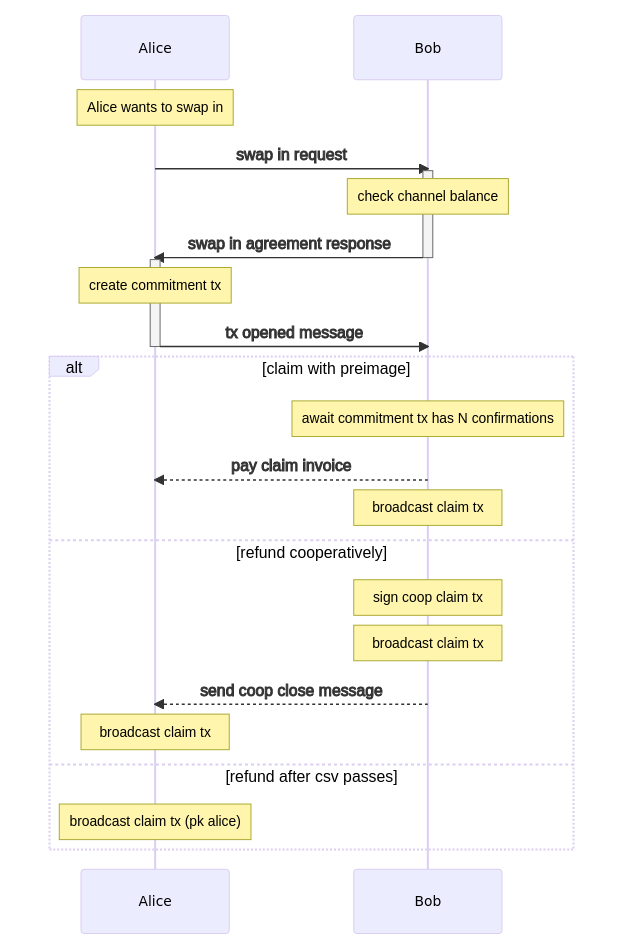
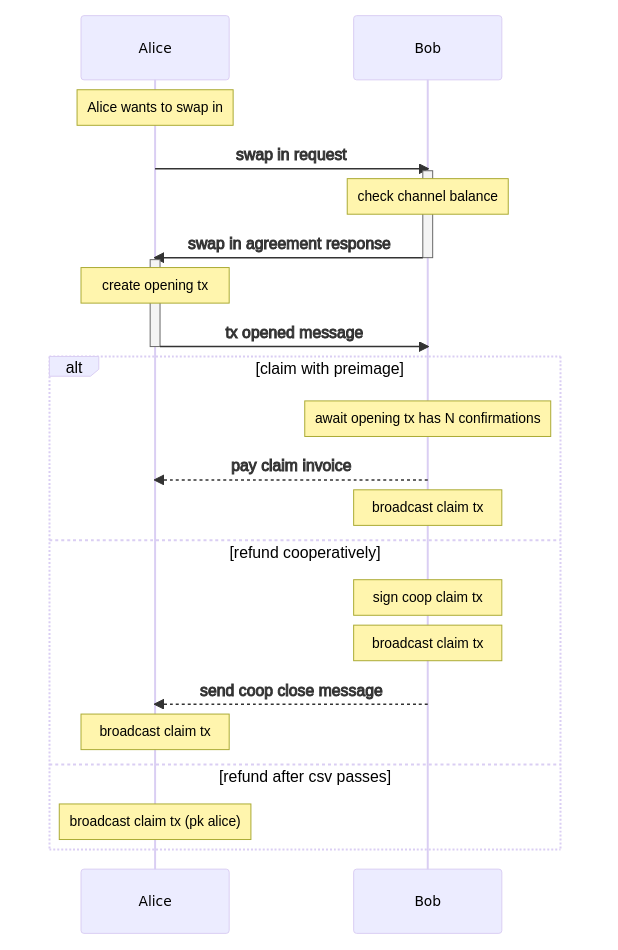
fixup: add peer protocol [skip ci]
- rename commitment tx to opening tx in sequence diagrams

diff --git a/docs/mmd/swap-out-sender-states.md b/docs/mmd/swap-out-sender-states.md
@@ -1,40 +1,40 @@
 ```mermaid
 stateDiagram-v2
-State_SendCancel
-State_SendCancel --> State_SwapCanceled: Event_ActionSucceeded
-State_SendCancel --> State_SwapCanceled: Event_ActionFailed
-State_SwapOutSender_ClaimSwap
-State_SwapOutSender_ClaimSwap --> State_ClaimedPreimage: Event_ActionSucceeded
-State_SwapOutSender_ClaimSwap --> State_SwapOutSender_ClaimSwap: Event_OnRetry
-State_SwapOutSender_SendCoopClose
-State_SwapOutSender_SendCoopClose --> State_SendCancel: Event_ActionFailed
-State_SwapOutSender_SendCoopClose --> State_ClaimedCoop: Event_ActionSucceeded
-State_ClaimedPreimage
-State_SwapOutSender_CreateSwap
-State_SwapOutSender_CreateSwap --> State_SwapOutSender_SendRequest: Event_ActionSucceeded
-State_SwapOutSender_PayFeeInvoice
-State_SwapOutSender_PayFeeInvoice --> State_SwapOutSender_AwaitTxBroadcastedMessage: Event_ActionSucceeded
-State_SwapOutSender_PayFeeInvoice --> State_SendCancel: Event_ActionFailed
-State_SwapCanceled
-[*] --> State_SwapOutSender_CreateSwap: Event_OnSwapOutStarted
-State_SwapOutSender_ValidateTxAndPayClaimInvoice
-State_SwapOutSender_ValidateTxAndPayClaimInvoice --> State_SwapOutSender_BuildSigHash: Event_ActionFailed
-State_SwapOutSender_ValidateTxAndPayClaimInvoice --> State_SwapOutSender_ClaimSwap: Event_ActionSucceeded
-State_SwapOutSender_BuildSigHash
-State_SwapOutSender_BuildSigHash --> State_SendCancel: Event_ActionFailed
-State_SwapOutSender_BuildSigHash --> State_SwapOutSender_SendCoopClose: Event_ActionSucceeded
-State_ClaimedCoop
 State_SwapOutSender_SendRequest
 State_SwapOutSender_SendRequest --> State_SwapCanceled: Event_ActionFailed
 State_SwapOutSender_SendRequest --> State_SwapOutSender_AwaitAgreement: Event_ActionSucceeded
 State_SwapOutSender_AwaitAgreement
 State_SwapOutSender_AwaitAgreement --> State_SwapCanceled: Event_OnCancelReceived
 State_SwapOutSender_AwaitAgreement --> State_SwapOutSender_PayFeeInvoice: Event_OnFeeInvoiceReceived
+State_SwapOutSender_ValidateTxAndPayClaimInvoice
+State_SwapOutSender_ValidateTxAndPayClaimInvoice --> State_SwapOutSender_SendPrivkey: Event_ActionFailed
+State_SwapOutSender_ValidateTxAndPayClaimInvoice --> State_SwapOutSender_ClaimSwap: Event_ActionSucceeded
+State_SwapOutSender_SendCoopClose
+State_SwapOutSender_SendCoopClose --> State_SendCancel: Event_ActionFailed
+State_SwapOutSender_SendCoopClose --> State_ClaimedCoop: Event_ActionSucceeded
+State_ClaimedPreimage
+[*] --> State_SwapOutSender_CreateSwap: Event_OnSwapOutStarted
+State_SwapOutSender_ClaimSwap
+State_SwapOutSender_ClaimSwap --> State_ClaimedPreimage: Event_ActionSucceeded
+State_SwapOutSender_ClaimSwap --> State_SwapOutSender_ClaimSwap: Event_OnRetry
+State_SwapOutSender_CreateSwap
+State_SwapOutSender_CreateSwap --> State_SwapOutSender_SendRequest: Event_ActionSucceeded
+State_SendCancel
+State_SendCancel --> State_SwapCanceled: Event_ActionSucceeded
+State_SendCancel --> State_SwapCanceled: Event_ActionFailed
+State_SwapOutSender_SendPrivkey
+State_SwapOutSender_SendPrivkey --> State_SendCancel: Event_ActionFailed
+State_SwapOutSender_SendPrivkey --> State_SwapOutSender_SendCoopClose: Event_ActionSucceeded
+State_SwapCanceled
+State_SwapOutSender_PayFeeInvoice
+State_SwapOutSender_PayFeeInvoice --> State_SendCancel: Event_ActionFailed
+State_SwapOutSender_PayFeeInvoice --> State_SwapOutSender_AwaitTxBroadcastedMessage: Event_ActionSucceeded
 State_SwapOutSender_AwaitTxBroadcastedMessage
 State_SwapOutSender_AwaitTxBroadcastedMessage --> State_SwapCanceled: Event_OnCancelReceived
 State_SwapOutSender_AwaitTxBroadcastedMessage --> State_SwapOutSender_AwaitTxConfirmation: Event_OnTxOpenedMessage
 State_SwapOutSender_AwaitTxBroadcastedMessage --> State_SendCancel: Event_ActionSucceeded
 State_SwapOutSender_AwaitTxConfirmation
-State_SwapOutSender_AwaitTxConfirmation --> State_SwapOutSender_BuildSigHash: Event_ActionFailed
+State_SwapOutSender_AwaitTxConfirmation --> State_SwapOutSender_SendPrivkey: Event_ActionFailed
 State_SwapOutSender_AwaitTxConfirmation --> State_SwapOutSender_ValidateTxAndPayClaimInvoice: Event_OnTxConfirmed
+State_ClaimedCoop
 ```

diff --git a/docs/mmd/swap-out-receiver-states.md b/docs/mmd/swap-out-receiver-states.md
@@ -1,39 +1,39 @@
 ```mermaid
 stateDiagram-v2
-[*] --> State_SwapOutReceiver_CreateSwap: Event_OnSwapOutRequestReceived
 State_SwapCanceled
 State_ClaimedPreimage
-State_SwapOutReceiver_CreateSwap
-State_SwapOutReceiver_CreateSwap --> State_SwapOutReceiver_SendFeeInvoice: Event_ActionSucceeded
-State_SwapOutReceiver_CreateSwap --> State_SendCancel: Event_ActionFailed
-State_SwapOutReceiver_BroadcastOpeningTx
-State_SwapOutReceiver_BroadcastOpeningTx --> State_SwapOutReceiver_SendTxBroadcastedMessage: Event_ActionSucceeded
-State_SwapOutReceiver_BroadcastOpeningTx --> State_SendCancel: Event_ActionFailed
-State_SwapOutReceiver_Aborted
-State_SwapOutReceiver_Aborted --> State_SwapOutReceiver_ClaimSwapCsv: Event_OnCsvPassed
+State_ClaimedCoop
+[*] --> State_SwapOutReceiver_CreateSwap: Event_OnSwapOutRequestReceived
+State_SwapOutReceiver_AwaitClaimInvoicePayment
+State_SwapOutReceiver_AwaitClaimInvoicePayment --> State_ClaimedPreimage: Event_OnClaimInvoicePaid
+State_SwapOutReceiver_AwaitClaimInvoicePayment --> State_SwapOutReceiver_ClaimSwapCsv: Event_OnCancelReceived
+State_SwapOutReceiver_AwaitClaimInvoicePayment --> State_SwapOutReceiver_ClaimSwapCoop: Event_OnCoopCloseReceived
+State_SwapOutReceiver_AwaitClaimInvoicePayment --> State_SwapOutReceiver_ClaimSwapCsv: Event_OnCsvPassed
 State_SwapOutReceiver_ClaimSwapCsv
 State_SwapOutReceiver_ClaimSwapCsv --> State_ClaimedCsv: Event_ActionSucceeded
 State_SwapOutReceiver_ClaimSwapCsv --> State_SwapOutReceiver_ClaimSwapCsv: Event_OnRetry
+State_ClaimedCsv
+State_SwapOutReceiver_CreateSwap
+State_SwapOutReceiver_CreateSwap --> State_SwapOutReceiver_SendFeeInvoice: Event_ActionSucceeded
+State_SwapOutReceiver_CreateSwap --> State_SendCancel: Event_ActionFailed
 State_SwapOutReceiver_AwaitFeeInvoicePayment
-State_SwapOutReceiver_AwaitFeeInvoicePayment --> State_SwapCanceled: Event_OnCancelReceived
 State_SwapOutReceiver_AwaitFeeInvoicePayment --> State_SwapOutReceiver_BroadcastOpeningTx: Event_OnFeeInvoicePaid
+State_SwapOutReceiver_AwaitFeeInvoicePayment --> State_SwapCanceled: Event_OnCancelReceived
 State_SendCancel
-State_SendCancel --> State_SwapCanceled: Event_ActionFailed
 State_SendCancel --> State_SwapCanceled: Event_ActionSucceeded
-State_ClaimedCoop
+State_SendCancel --> State_SwapCanceled: Event_ActionFailed
 State_SwapOutReceiver_SendFeeInvoice
 State_SwapOutReceiver_SendFeeInvoice --> State_SendCancel: Event_ActionFailed
 State_SwapOutReceiver_SendFeeInvoice --> State_SwapOutReceiver_AwaitFeeInvoicePayment: Event_ActionSucceeded
 State_SwapOutReceiver_SendTxBroadcastedMessage
 State_SwapOutReceiver_SendTxBroadcastedMessage --> State_SwapOutReceiver_AwaitClaimInvoicePayment: Event_ActionSucceeded
 State_SwapOutReceiver_SendTxBroadcastedMessage --> State_SwapOutReceiver_Aborted: Event_ActionFailed
-State_SwapOutReceiver_AwaitClaimInvoicePayment
-State_SwapOutReceiver_AwaitClaimInvoicePayment --> State_SwapOutReceiver_ClaimSwapCoop: Event_OnCoopCloseReceived
-State_SwapOutReceiver_AwaitClaimInvoicePayment --> State_SwapOutReceiver_ClaimSwapCsv: Event_OnCsvPassed
-State_SwapOutReceiver_AwaitClaimInvoicePayment --> State_ClaimedPreimage: Event_OnClaimInvoicePaid
-State_SwapOutReceiver_AwaitClaimInvoicePayment --> State_SwapOutReceiver_ClaimSwapCsv: Event_OnCancelReceived
+State_SwapOutReceiver_BroadcastOpeningTx
+State_SwapOutReceiver_BroadcastOpeningTx --> State_SwapOutReceiver_SendTxBroadcastedMessage: Event_ActionSucceeded
+State_SwapOutReceiver_BroadcastOpeningTx --> State_SendCancel: Event_ActionFailed
 State_SwapOutReceiver_ClaimSwapCoop
 State_SwapOutReceiver_ClaimSwapCoop --> State_ClaimedCoop: Event_ActionSucceeded
 State_SwapOutReceiver_ClaimSwapCoop --> State_SwapOutReceiver_Aborted: Event_ActionFailed
-State_ClaimedCsv
+State_SwapOutReceiver_Aborted
+State_SwapOutReceiver_Aborted --> State_SwapOutReceiver_ClaimSwapCsv: Event_OnCsvPassed
 ```

diff --git a/docs/mmd/swap-in-sender-states.md b/docs/mmd/swap-in-sender-states.md
@@ -1,39 +1,39 @@
 ```mermaid
 stateDiagram-v2
-State_WaitCsv
-State_WaitCsv --> State_SwapInSender_ClaimSwapCsv: Event_OnCsvPassed
-State_SwapCanceled
+State_ClaimedCoop
 [*] --> State_SwapInSender_CreateSwap: Event_SwapInSender_OnSwapInRequested
-State_SwapInSender_CreateSwap
-State_SwapInSender_CreateSwap --> State_SwapInSender_SendRequest: Event_ActionSucceeded
-State_SwapInSender_CreateSwap --> State_SwapCanceled: Event_ActionFailed
-State_SwapInSender_AwaitAgreement
-State_SwapInSender_AwaitAgreement --> State_SwapInSender_BroadcastOpeningTx: Event_SwapInSender_OnAgreementReceived
-State_SwapInSender_AwaitAgreement --> State_SwapCanceled: Event_OnCancelReceived
 State_SwapInSender_SendTxBroadcastedMessage
 State_SwapInSender_SendTxBroadcastedMessage --> State_SwapInSender_AwaitClaimPayment: Event_ActionSucceeded
 State_SwapInSender_SendTxBroadcastedMessage --> State_WaitCsv: Event_ActionFailed
-State_SwapInSender_ClaimSwapCsv
-State_SwapInSender_ClaimSwapCsv --> State_ClaimedCsv: Event_ActionSucceeded
-State_SwapInSender_ClaimSwapCsv --> State_SwapInSender_ClaimSwapCsv: Event_OnRetry
-State_SwapInSender_ClaimSwapCoop
-State_SwapInSender_ClaimSwapCoop --> State_ClaimedCoop: Event_ActionSucceeded
-State_SwapInSender_ClaimSwapCoop --> State_WaitCsv: Event_ActionFailed
-State_ClaimedCsv
-State_SwapInSender_BroadcastOpeningTx
-State_SwapInSender_BroadcastOpeningTx --> State_SwapInSender_SendTxBroadcastedMessage: Event_ActionSucceeded
-State_SwapInSender_BroadcastOpeningTx --> State_SendCancel: Event_ActionFailed
+State_WaitCsv
+State_WaitCsv --> State_SwapInSender_ClaimSwapCsv: Event_OnCsvPassed
+State_SendCancel
+State_SendCancel --> State_SwapCanceled: Event_ActionSucceeded
+State_SendCancel --> State_SwapCanceled: Event_ActionFailed
+State_ClaimedPreimage
+State_SwapInSender_CreateSwap
+State_SwapInSender_CreateSwap --> State_SwapInSender_SendRequest: Event_ActionSucceeded
+State_SwapInSender_CreateSwap --> State_SwapCanceled: Event_ActionFailed
 State_SwapInSender_AwaitClaimPayment
 State_SwapInSender_AwaitClaimPayment --> State_ClaimedPreimage: Event_OnClaimInvoicePaid
 State_SwapInSender_AwaitClaimPayment --> State_SwapInSender_ClaimSwapCsv: Event_OnCsvPassed
 State_SwapInSender_AwaitClaimPayment --> State_WaitCsv: Event_OnCancelReceived
 State_SwapInSender_AwaitClaimPayment --> State_SwapInSender_ClaimSwapCoop: Event_OnCoopCloseReceived
+State_SwapInSender_ClaimSwapCsv
+State_SwapInSender_ClaimSwapCsv --> State_ClaimedCsv: Event_ActionSucceeded
+State_SwapInSender_ClaimSwapCsv --> State_SwapInSender_ClaimSwapCsv: Event_OnRetry
+State_SwapInSender_AwaitAgreement
+State_SwapInSender_AwaitAgreement --> State_SwapInSender_BroadcastOpeningTx: Event_SwapInSender_OnAgreementReceived
+State_SwapInSender_AwaitAgreement --> State_SwapCanceled: Event_OnCancelReceived
+State_SwapInSender_BroadcastOpeningTx
+State_SwapInSender_BroadcastOpeningTx --> State_SwapInSender_SendTxBroadcastedMessage: Event_ActionSucceeded
+State_SwapInSender_BroadcastOpeningTx --> State_SendCancel: Event_ActionFailed
+State_SwapInSender_ClaimSwapCoop
+State_SwapInSender_ClaimSwapCoop --> State_ClaimedCoop: Event_ActionSucceeded
+State_SwapInSender_ClaimSwapCoop --> State_WaitCsv: Event_ActionFailed
 State_SwapInSender_SendRequest
 State_SwapInSender_SendRequest --> State_SwapInSender_AwaitAgreement: Event_ActionSucceeded
 State_SwapInSender_SendRequest --> State_SwapCanceled: Event_ActionFailed
-State_ClaimedPreimage
-State_ClaimedCoop
-State_SendCancel
-State_SendCancel --> State_SwapCanceled: Event_ActionSucceeded
-State_SendCancel --> State_SwapCanceled: Event_ActionFailed
+State_SwapCanceled
+State_ClaimedCsv
 ```

diff --git a/docs/mmd/swap-in-receiver-states.md b/docs/mmd/swap-in-receiver-states.md
@@ -1,36 +1,36 @@
 ```mermaid
 stateDiagram-v2
-State_SendCancel
-State_SendCancel --> State_SwapCanceled: Event_ActionFailed
-State_SendCancel --> State_SwapCanceled: Event_ActionSucceeded
-State_SwapCanceled
-State_SwapInReceiver_SendAgreement
-State_SwapInReceiver_SendAgreement --> State_SwapInReceiver_AwaitTxBroadcastedMessage: Event_ActionSucceeded
-State_SwapInReceiver_SendAgreement --> State_SendCancel: Event_ActionFailed
+[*] --> State_SwapInReceiver_CreateSwap: Event_SwapInReceiver_OnRequestReceived
 State_SwapInReceiver_AwaitTxBroadcastedMessage
-State_SwapInReceiver_AwaitTxBroadcastedMessage --> State_SendCancel: Event_ActionFailed
 State_SwapInReceiver_AwaitTxBroadcastedMessage --> State_SwapInReceiver_AwaitTxConfirmation: Event_OnTxOpenedMessage
 State_SwapInReceiver_AwaitTxBroadcastedMessage --> State_SwapCanceled: Event_OnCancelReceived
-State_SwapInReceiver_ValidateTxAndPayClaimInvoice
-State_SwapInReceiver_ValidateTxAndPayClaimInvoice --> State_SwapInReceiver_ClaimSwap: Event_ActionSucceeded
-State_SwapInReceiver_ValidateTxAndPayClaimInvoice --> State_SwapOutSender_BuildSigHash: Event_ActionFailed
+State_SwapInReceiver_AwaitTxBroadcastedMessage --> State_SendCancel: Event_ActionFailed
 State_SwapInReceiver_SendCoopClose
 State_SwapInReceiver_SendCoopClose --> State_ClaimedCoop: Event_ActionSucceeded
 State_SwapInReceiver_SendCoopClose --> State_SendCancel: Event_ActionFailed
 State_SwapInReceiver_ClaimSwap
-State_SwapInReceiver_ClaimSwap --> State_ClaimedPreimage: Event_ActionSucceeded
 State_SwapInReceiver_ClaimSwap --> State_SwapInReceiver_ClaimSwap: Event_OnRetry
+State_SwapInReceiver_ClaimSwap --> State_ClaimedPreimage: Event_ActionSucceeded
+State_SendCancel
+State_SendCancel --> State_SwapCanceled: Event_ActionFailed
+State_SendCancel --> State_SwapCanceled: Event_ActionSucceeded
+State_SwapCanceled
 State_ClaimedCoop
-[*] --> State_SwapInReceiver_CreateSwap: Event_SwapInReceiver_OnRequestReceived
 State_SwapInReceiver_CreateSwap
-State_SwapInReceiver_CreateSwap --> State_SendCancel: Event_ActionFailed
 State_SwapInReceiver_CreateSwap --> State_SwapInReceiver_SendAgreement: Event_ActionSucceeded
+State_SwapInReceiver_CreateSwap --> State_SendCancel: Event_ActionFailed
+State_SwapInReceiver_SendAgreement
+State_SwapInReceiver_SendAgreement --> State_SwapInReceiver_AwaitTxBroadcastedMessage: Event_ActionSucceeded
+State_SwapInReceiver_SendAgreement --> State_SendCancel: Event_ActionFailed
 State_SwapInReceiver_AwaitTxConfirmation
+State_SwapInReceiver_AwaitTxConfirmation --> State_SwapOutSender_SendPrivkey: Event_OnCancelReceived
 State_SwapInReceiver_AwaitTxConfirmation --> State_SwapInReceiver_ValidateTxAndPayClaimInvoice: Event_OnTxConfirmed
 State_SwapInReceiver_AwaitTxConfirmation --> State_SendCancel: Event_ActionFailed
-State_SwapInReceiver_AwaitTxConfirmation --> State_SwapOutSender_BuildSigHash: Event_OnCancelReceived
-State_SwapOutSender_BuildSigHash
-State_SwapOutSender_BuildSigHash --> State_SendCancel: Event_ActionFailed
-State_SwapOutSender_BuildSigHash --> State_SwapInReceiver_SendCoopClose: Event_ActionSucceeded
+State_SwapInReceiver_ValidateTxAndPayClaimInvoice
+State_SwapInReceiver_ValidateTxAndPayClaimInvoice --> State_SwapOutSender_SendPrivkey: Event_ActionFailed
+State_SwapInReceiver_ValidateTxAndPayClaimInvoice --> State_SwapInReceiver_ClaimSwap: Event_ActionSucceeded
+State_SwapOutSender_SendPrivkey
+State_SwapOutSender_SendPrivkey --> State_SendCancel: Event_ActionFailed
+State_SwapOutSender_SendPrivkey --> State_SwapInReceiver_SendCoopClose: Event_ActionSucceeded
 State_ClaimedPreimage
 ```

diff --git a/docs/mmd/swap-in-sequence.md b/docs/mmd/swap-in-sequence.md
@@ -11,11 +11,11 @@ Note over B: check channel balance
 B->>A: swap in agreement response
 deactivate B
 activate A
-Note over A: create commitment tx
+Note over A: create opening tx
 A->>B: tx opened message
 deactivate A
 alt claim with preimage
-Note over B: await commitment tx has N confirmations
+Note over B: await opening tx has N confirmations
 B-->>A: pay claim invoice
 Note over B: broadcast claim tx
 else refund cooperatively

diff --git a/docs/mmd/swap-out-sequence.md b/docs/mmd/swap-out-sequence.md
@@ -12,11 +12,11 @@ B->>A: swap out agreement response
 deactivate B
 A-->>B: pay fee invoice
 activate B
-Note over B: create commitment tx
+Note over B: create opening tx
 B->>A: tx opened message
 deactivate B
 alt claim with preimage
-Note over A: await commitment tx has N confirmations
+Note over A: await opening tx has N confirmations
 A-->>B: pay claim invoice
 Note over A: broadcast claim tx
 else refund cooperatively
